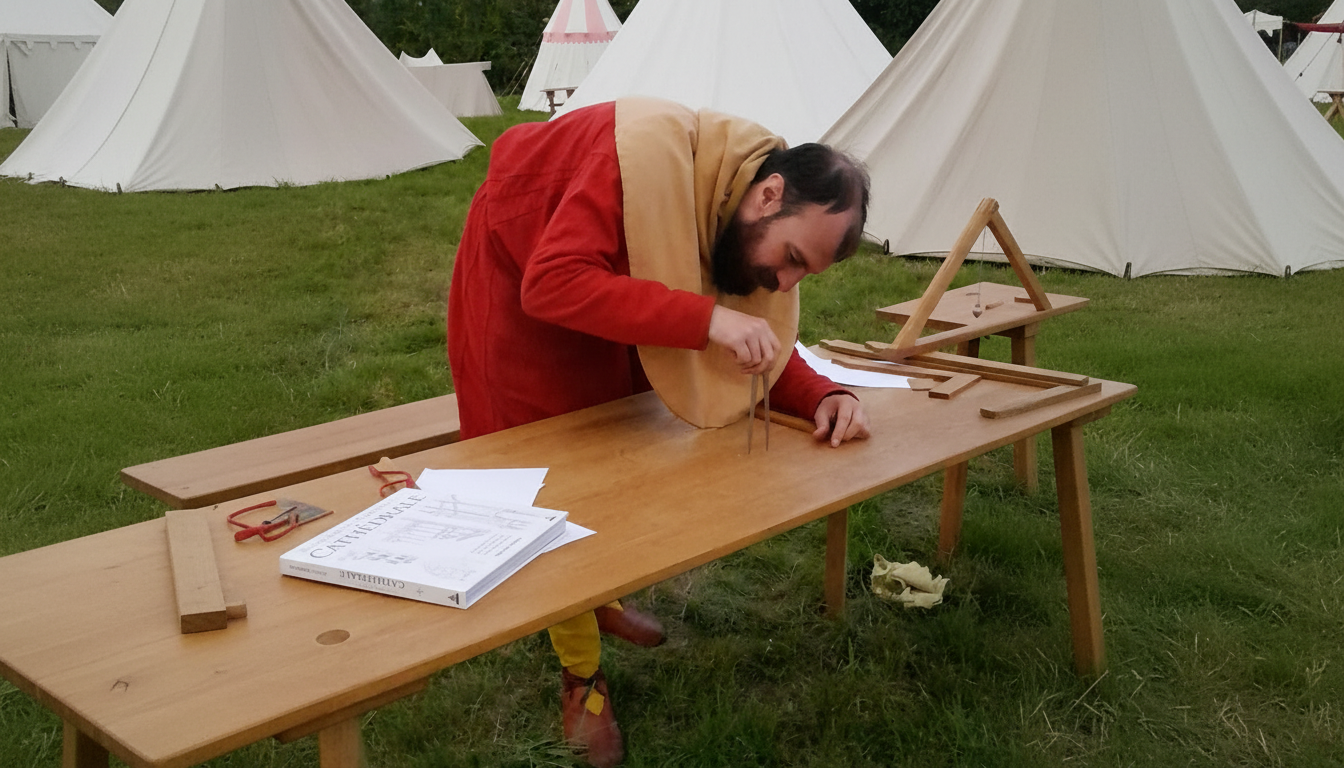
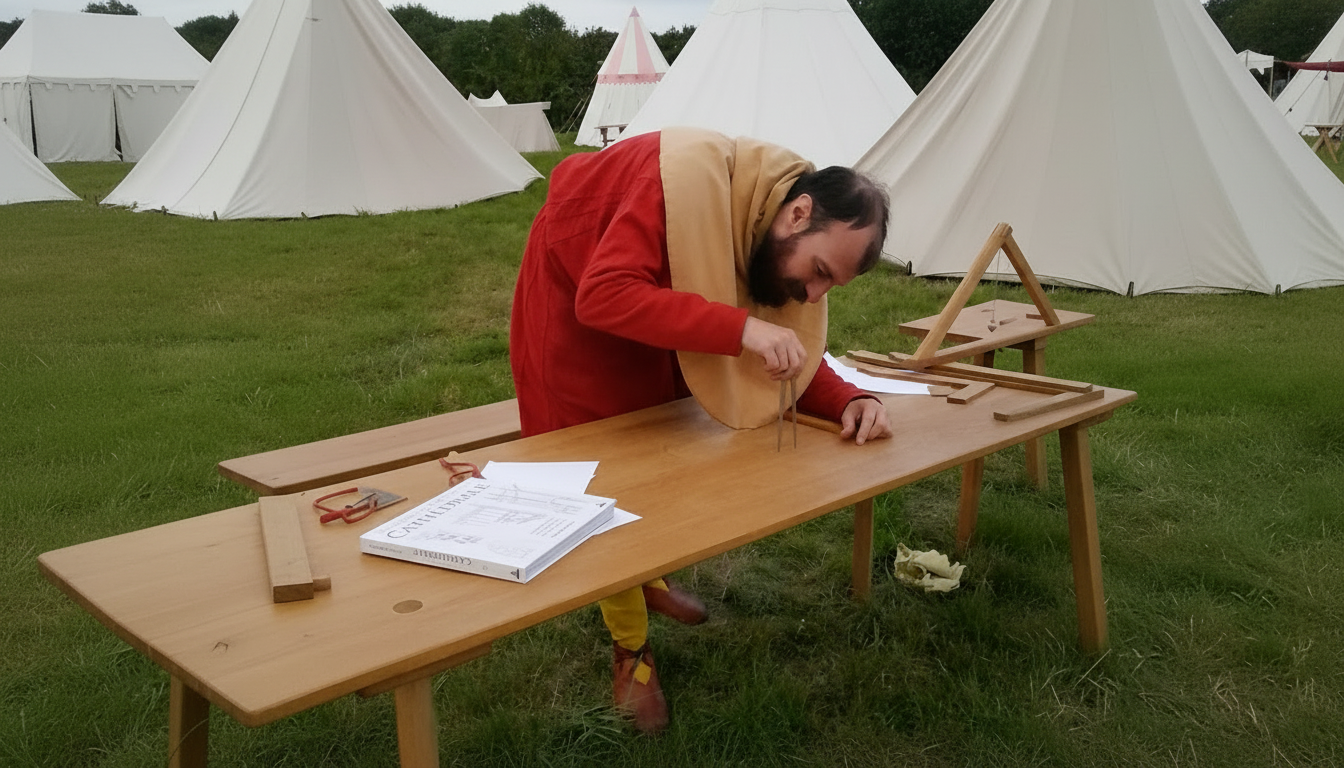
Changes

diff --git a/src/pages/About.tsx b/src/pages/About.tsx
@@ -67,7 +67,7 @@ const About = () => (
             Ein großer Teil der Kleidung und Ausrüstung, die wir in unseren Darstellungen verwenden, entsteht so Schritt für Schritt innerhalb der Gruppe.
           </p>
         </div>
-        <div className="rounded-lg overflow-hidden mt-6 max-w-md mx-auto">
+        <div className="rounded-lg overflow-hidden mt-6">
           <img src={detailHandwerk} alt="Detailfoto Handwerk – Zirkelarbeit am Tisch" className="w-full h-auto object-cover rounded-lg" />
         </div>
       </section>
